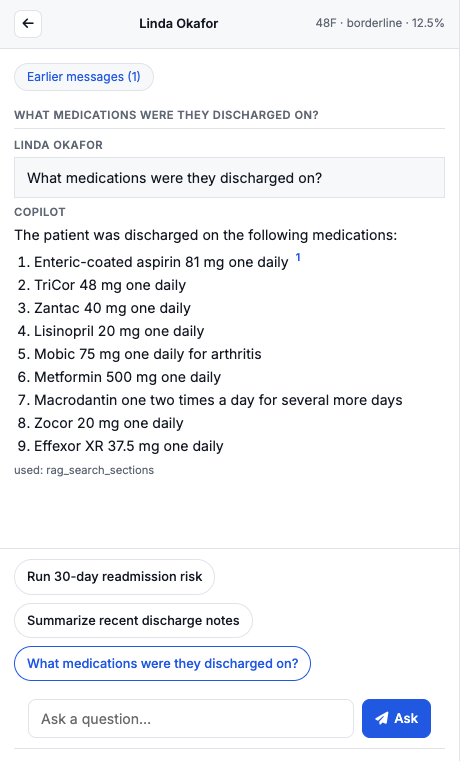
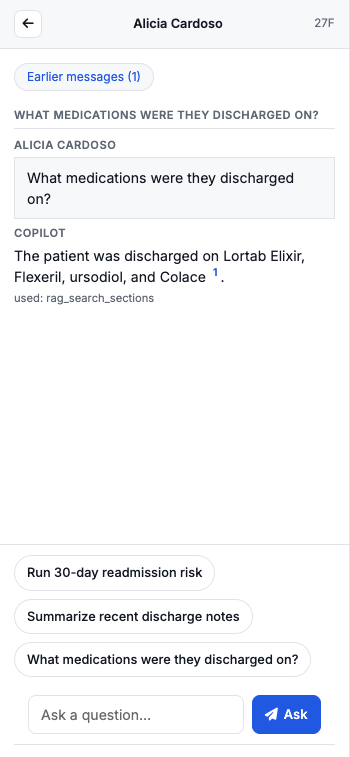
fixed issues with citation links and updated demo guide page with fresh screens and removed stale content

diff --git a/demo/templates/demo/guide.html b/demo/templates/demo/guide.html
@@ -62,7 +62,7 @@ header and colors match the console exactly.{% endcomment %}
       Nothing here is stubbed.
     </p>
     <p class="guide-notes">
-      Four ways to explore, in the order a reviewer naturally goes.
+      Three ways to explore, in the order a reviewer naturally goes.
     </p>
   </header>
 
@@ -71,7 +71,6 @@ header and colors match the console exactly.{% endcomment %}
       <li><a href="#journey-risk">Assess a patient's readmission risk</a></li>
       <li><a href="#journey-ask">Ask the agent about a patient</a></li>
       <li><a href="#journey-verify">Verify the evidence</a></li>
-      <li><a href="#journey-compare">See the cohort spread</a></li>
     </ol>
   </nav>
 
@@ -90,7 +89,7 @@ header and colors match the console exactly.{% endcomment %}
     <div class="guide-body">
       <figure class="guide-shot">
         <img class="shot-img" src="{% static 'images/guide/risk-card.png' %}"
-             alt="The risk assessment card for Linda Okafor: 12.5% probability, borderline band, and the top contributing factors.">
+             alt="The risk assessment card for Alicia Cardoso: 11.6% probability, borderline band, and the top contributing factors.">
         <figcaption>
           The card shows the 30-day readmission <strong>probability</strong>, the
           band it falls in (low / borderline / high), and the model's
@@ -98,8 +97,8 @@ header and colors match the console exactly.{% endcomment %}
         </figcaption>
       </figure>
       <ol class="guide-points">
-        <li>Note the <strong>band</strong>: each patient is low (&lt; 12%), borderline
-          (12–20%), or high (&gt; 20%).</li>
+        <li>Note the <strong>band</strong>: each patient is low (&lt; 11%), borderline
+          (11–19%), or high (&gt; 19%).</li>
         <li>Read the <strong>top factors</strong> — they explain <em>why</em> the
           model says what it says, not just a number.</li>
         <li>Every factor is traceable: it comes from the note's own text where
@@ -123,7 +122,7 @@ header and colors match the console exactly.{% endcomment %}
     <div class="guide-body">
       <figure class="guide-shot">
         <img class="shot-img" src="{% static 'images/guide/agent-chat.png' %}"
-             alt="The agent's answer listing Linda Okafor's discharge medications with a citation marker.">
+             alt="The agent's answer listing Alicia Cardoso's discharge medications with a citation marker.">
         <figcaption>
           Ask <em>"what is this patient at risk for?"</em>, <em>"list the discharge
           medications"</em>, or <em>"summarize the hospital course"</em>. The answer
@@ -170,38 +169,6 @@ header and colors match the console exactly.{% endcomment %}
           agree, because the answer is grounded in it.</li>
         <li>Ask a follow-up that challenges a claim; the agent re-grounds on the
           same note.</li>
-      </ol>
-    </div>
-  </section>
-
-  {# ---------------- Journey 4: compare the cohort ---------------- #}
-  <section id="journey-compare" class="guide-journey">
-    <div class="guide-journey-head">
-      <span class="guide-step">4</span>
-      <div>
-        <h2>See the cohort spread</h2>
-        <p class="guide-sub">
-          The rail spans all three bands, so you can compare a low-risk and a
-          high-risk patient side by side.
-        </p>
-      </div>
-    </div>
-    <div class="guide-body">
-      <figure class="guide-shot">
-        <img class="shot-img" src="{% static 'images/guide/cohort-rail.png' %}"
-             alt="The patient rail with color-coded risk dots for low, borderline, and high bands.">
-        <figcaption>
-          Each patient's dot is colored by band. Pick one from each band and the
-          difference in story, factors, and meds should be obvious.
-        </figcaption>
-      </figure>
-      <ol class="guide-points">
-        <li>A <strong>low</strong>-risk patient has few drivers and a light meds
-          list.</li>
-        <li>A <strong>high</strong>-risk patient's card is dominated by real
-          drivers (age, prior admissions, procedures, polypharmacy).</li>
-        <li>The same note ↔ feature ↔ risk coherence rule holds for every patient
-          in the rail.</li>
       </ol>
     </div>
   </section>

diff --git a/static/js/demo_a2ui.js b/static/js/demo_a2ui.js
@@ -127,35 +127,48 @@ function unavailableText(section) {
 function envelopeForCite(turn, n) {
   if (!turn.a2ui) return null;
 
+  // The server renumbers ^[n] markers to first-appearance order, so a clicked
+  // number no longer matches the passage array index when the model cited
+  // passages out of array order. citation_map ({new: old}) undoes that.
+  const oldN = (turn.citationMap && turn.citationMap[n]) || n;
+
+  // Section-intent resolution is only valid for a SINGLE-citation answer: the
+  // model mis-numbers that one citation (a meds answer cites ^[1] while its
+  // supporting passage sits elsewhere). A multi-citation answer cites its
+  // passages in array order, so map n straight to the passage.
+  const multiCite = !!(turn.cited && turn.cited.size > 1);
+
   // Resolve which passage/section this footnote actually supports
   // (intent-section aware — the model mis-numbers citations).
   let passage = null;
   let intentBody = null;
   let matchedSection = null;
-  for (const sec of (turn.intentSections || [])) {
-    passage = (turn.passages || []).find((p) => p.section === sec) || null;
-    if (passage) { matchedSection = sec; break; }
-    // The index stores whole-note chunks, so a passage labeled with a
-    // different section still CONTAINS the target section. Extract it from
-    // the passage text instead of showing the wrong section.
-    for (const p of (turn.passages || [])) {
-      const body = extractSection(p.text, sec);
-      if (body) { passage = p; intentBody = body; matchedSection = sec; break; }
+  if (!multiCite) {
+    for (const sec of (turn.intentSections || [])) {
+      passage = (turn.passages || []).find((p) => p.section === sec) || null;
+      if (passage) { matchedSection = sec; break; }
+      // The index stores whole-note chunks, so a passage labeled with a
+      // different section still CONTAINS the target section. Extract it from
+      // the passage text instead of showing the wrong section.
+      for (const p of (turn.passages || [])) {
+        const body = extractSection(p.text, sec);
+        if (body) { passage = p; intentBody = body; matchedSection = sec; break; }
+      }
+      if (passage) break;
     }
-    if (passage) break;
   }
 
   // Decide the SourceCard's section label + body text.
   let sectionLabel;
   let bodyText;
-  if (!passage && (turn.intentSections || []).length) {
+  if (!multiCite && !passage && (turn.intentSections || []).length) {
     // The note has NONE of the targeted sections. The deterministic answer
     // is "not available", not a passage mined from unrelated narrative.
     sectionLabel = 'not available';
     bodyText = unavailableText(turn.intentSections[0]);
   } else {
-    if (!passage && turn.passages && turn.passages[n - 1]) {
-      passage = turn.passages[n - 1];
+    if (!passage && turn.passages && turn.passages[oldN - 1]) {
+      passage = turn.passages[oldN - 1];
     }
     if (!passage) return turn.a2ui;
     const extracted = intentBody || extractSection(passage.text, passage.section) || null;

diff --git a/static/js/demo_flow.js b/static/js/demo_flow.js
@@ -703,6 +703,7 @@ export function createDemoFlow({ root, askUrl, renderCanvas, onCite }) {
       passages: (rag?.response?.passages) || [],
       query: (rag?.response?.query) || null,
       intentSections: data.intent_sections || null,
+      citationMap: data.citation_map || null,
       cited: citedNumbers(data.answer || ''),
       // The A2UI canvas renders a per-turn envelope, so a footnote click in an
       // older turn can re-draw that turn's composed canvas.

diff --git a/demo/a2ui_canvas.py b/demo/a2ui_canvas.py
@@ -221,26 +221,18 @@ def _expand_citations(inner: str) -> list[int]:
     return [int(x.strip()) for x in inner.split(",") if x.strip()]
 
 
-def renumber_citations(answer: str) -> str:
-    """Renumber ^[n] markers to first-appearance order (1, 2, 3, ...).
+def _renumber_citations(answer: str) -> tuple[str, dict[int, int]]:
+    """Renumber ^[n] markers to first-appearance order.
 
-    The model numbers citations by the tool's array position: a meds-only
-    answer cites ^[3] because discharge_medications is the THIRD section in
-    rag_search_sections order. In a meds-only turn that reads illogically —
-    the first (and only) citation should be ^[1]. Renumber deterministically
-    so citations always start at 1 in order of appearance; the canvas's
-    section-intent resolution keeps the passage mapping correct regardless.
-
-    Also collapses STACKED citations (^[1]^[2]^[3]... with only whitespace
-    between them — the model dumping every returned passage onto one claim) to
-    a single marker, since a row of citations on one claim has no per-claim
-    granularity to preserve.
+    Returns (renumbered_answer, old_to_new) where old_to_new maps the model's
+    original citation number (the tool's array position) to its renumbered
+    number (first-appearance order, 1-based).
     """
     if not answer:
-        return answer
+        return answer, {}
     markers = list(_CITATION_RE.finditer(answer))
     if not markers:
-        return answer
+        return answer, {}
     # Group markers separated only by whitespace into one cluster.
     clusters: list[list[re.Match]] = [[markers[0]]]
     for m in markers[1:]:
@@ -267,7 +259,38 @@ def renumber_citations(answer: str) -> str:
         out.append(f"^[{old_to_new[first]}]")
         last = cl[-1].end()
     out.append(answer[last:])
-    return "".join(out)
+    return "".join(out), old_to_new
+
+
+def renumber_citations(answer: str) -> str:
+    """Renumber ^[n] markers to first-appearance order (1, 2, 3, ...).
+
+    The model numbers citations by the tool's array position: a meds-only
+    answer cites ^[3] because discharge_medications is the THIRD section in
+    rag_search_sections order. In a meds-only turn that reads illogically —
+    the first (and only) citation should be ^[1]. Renumber deterministically
+    so citations always start at 1 in order of appearance; the canvas's
+    section-intent resolution keeps the passage mapping correct regardless.
+
+    Also collapses STACKED citations (^[1]^[2]^[3]... with only whitespace
+    between them — the model dumping every returned passage onto one claim) to
+    a single marker, since a row of citations on one claim has no per-claim
+    granularity to preserve.
+    """
+    return _renumber_citations(answer)[0]
+
+
+def citation_remap(answer: str) -> dict[str, int]:
+    """{renumbered citation number: original passage number} for the client.
+
+    `renumber_citations` rewrites the model's ^[n] markers to first-appearance
+    order, so a clicked (renumbered) number no longer matches the passage
+    array index when the model cited passages out of array order. The client
+    uses this map to translate a clicked ^[n] back to the original passage.
+    Keys are strings for JSON.
+    """
+    _, old_to_new = _renumber_citations(answer)
+    return {str(new): old for old, new in old_to_new.items()}
 
 
 def _unavailable_text(section: str) -> str:

diff --git a/demo/tests.py b/demo/tests.py
@@ -68,14 +68,14 @@ class DemoAuthTests(TestCase):
         self.assertEqual(response.status_code, 200)
         body = response.content.decode()
         for anchor in (
-            'journey-risk', 'journey-ask', 'journey-verify', 'journey-compare',
+            'journey-risk', 'journey-ask', 'journey-verify',
         ):
             self.assertIn(f'id="{anchor}"', body)
         self.assertIn('Demo User Guide', body)
         # Every journey has a real live screenshot wired in (no "pending"
         # placeholder), so the guide shows the actual demo, not a stub.
         for img in ('images/guide/risk-card.png', 'images/guide/agent-chat.png',
-                    'images/guide/source-panel.png', 'images/guide/cohort-rail.png'):
+                    'images/guide/source-panel.png'):
             self.assertIn(f'images/guide/', body)
             self.assertIn(img, body)
         self.assertNotIn('Screenshot: ', body)
@@ -382,6 +382,16 @@ class A2uiCanvasTests(TestCase):
         self.assertEqual(
             renumber_citations('discharged on pain medication ^[1] ^[2] ^[3].'),
             'discharged on pain medication ^[1].')
+
+    def test_citation_remap_maps_renumbered_to_original(self):
+        from demo.a2ui_canvas import citation_remap
+        # 'A^[2] and B^[1] and C^[3]' renumbers to 1,2,3 in appearance order,
+        # so the map must translate the renumbered numbers back to the
+        # original passage positions (2,1,3).
+        self.assertEqual(
+            citation_remap('A^[2] and B^[1] and C^[3]'),
+            {'1': 2, '2': 1, '3': 3})
+        self.assertEqual(citation_remap('no citations here'), {})
 
     def test_extract_section_bounds_at_allergies_and_activity(self):
         """The meds source must not swallow trailing headers (Allergies,

diff --git a/demo/views.py b/demo/views.py
@@ -15,7 +15,8 @@ from django.views.decorators.http import require_POST
 
 from .agent_client import AgentError, ask as ask_agent
 from .a2ui_canvas import (
-    compose_risk_canvas, first_citation, intent_sections, renumber_citations,
+    citation_remap, compose_risk_canvas, first_citation, intent_sections,
+    renumber_citations,
 )
 from .fixtures import CHIPS, fixture_ask
 from .models import DemoPatient, DemoQuota
@@ -208,7 +209,12 @@ def a2ui_ask(request):
     # canvas's section-intent resolution keeps the passage mapping correct
     # regardless of the number.
     if result.get('answer'):
-        result['answer'] = renumber_citations(result['answer'])
+        original = result['answer']
+        result['answer'] = renumber_citations(original)
+        # The client maps a clicked (renumbered) ^[n] back to the original
+        # passage number, so a multi-citation answer's later footnotes show
+        # their own passage instead of collapsing onto the first intent section.
+        result['citation_map'] = citation_remap(original)
     result['a2ui'] = compose_risk_canvas(
         _tool_response(result, 'predict_readmission'),
         _rag_response(result),
